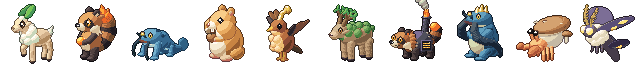
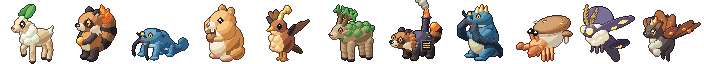
W66: new wildkin #11 搧火蝠 (fire bat, misty forest, evening/night)
Claude-Session: https://claude.ai/code/session_01G86S3FdZMqfgrsc5NdGkh1

diff --git a/tools/art/pals3.py b/tools/art/pals3.py
@@ -1,0 +1,99 @@
+# pals3.py：第三批野伴（W66）。畫法和 pals.py 一樣，設計說明見 DESIGN.md
+import numpy as np
+from r3d import *
+from paint import *
+from pals import Pal, V, fib
+
+# ============================================================
+# 11 搧火蝠：小蝙蝠。翅膀張開懸停；翼膜像風箱，一道道摺骨，搧一搧就把火搧旺；
+# 翼緣有點點餘燼、頭頂一小撮火苗。圓滾滾的炭色身體、胸口一團灰白的「灰燼」毛
+# ============================================================
+class FanBat(Pal):
+    FUR = Mat([(48, 40, 44), (74, 62, 64), (102, 88, 86), (130, 114, 108)], line=(52, 42, 46))
+    ASH = Mat([(150, 140, 134), (186, 176, 166), (214, 206, 196), (236, 230, 220)], line=(150, 140, 134))
+    WING = Mat([(120, 46, 40), (156, 66, 46), (192, 96, 58), (220, 130, 74)], line=(110, 40, 36))
+    BONE = Mat([(56, 40, 40), (82, 60, 56), (110, 84, 76)])
+    EAR_IN = Mat([(196, 90, 70), (230, 126, 90)])
+    EMBER = Mat([(240, 110, 40), (255, 156, 54), (255, 204, 90), (255, 240, 170)])
+    NOSE = Mat([(60, 40, 44), (100, 70, 72)], gloss=0.05)
+    HEAD = V(-6, -9, 0)
+    scale_f, off_f = 1.1, (32, 34)
+
+    # 翅膀的平面：e1 往外上方、e2 往後；骨頭從肩膀放射出去
+    BONES = ((-58, 16), (-24, 20), (10, 18), (44, 13))   # （角度、長度）
+
+    def wing_basis(self, s):
+        e1 = V(0.45, -0.6, 0.66 * s); e1 = e1 / np.linalg.norm(e1)
+        e2 = V(1, 0, 0)
+        n = np.cross(e1, e2); n = n / np.linalg.norm(n)
+        return e1, e2, n
+
+    def model(self):
+        m = Model(); H = self.HEAD
+        for s in (1, -1):
+            e1, e2, n = self.wing_basis(s)
+            base = V(4, -3, 3.5 * s)
+            tips = []
+            for (a, L) in self.BONES:
+                d = np.cos(deg(a)) * e1 + np.sin(deg(a)) * e2
+                tips.append(base + d * L)
+            # 翼膜：每兩根骨頭之間一片，下緣自然變成一個一個的弧（蝙蝠的波浪邊）
+            for j in range(len(tips) - 1):
+                t0, t1 = tips[j], tips[j + 1]
+                mid = (base + t0 + t1) / 3
+                u = (t0 + t1) / 2 - base; Lu = np.linalg.norm(u); u = u / Lu
+                v = np.cross(n, u)
+                R = np.column_stack([u, v, n])
+                w = np.linalg.norm(t1 - t0) / 2
+                m.ell(mid + u * 1.0, (Lu * 0.56, w * 0.78, 0.8), self.WING, R, tag=f"wing{s}{j}")
+            for j, t in enumerate(tips):
+                m.tube([base, t], [1.0, 0.5], self.BONE, tag=f"wingb{s}{j}")
+            # 摺骨之間的翼緣：點點餘燼
+            for j in range(len(tips) - 1):
+                p = base + ((tips[j] + tips[j + 1]) / 2 - base) * 0.8
+                m.sph(p + n * 0.6 * s, 1.5, self.EMBER, tag=f"wingE{s}{j}")
+        # 身體：圓滾滾
+        m.ell((2, 0, 0), (6.5, 7.5, 6), self.FUR, tag="body")
+        for i, d in enumerate(fib(14)):
+            if d[0] > -0.2: continue
+            m.sph(V(-2, 1, 0) + d * V(4.2, 4.8, 4.6), 2.5, self.ASH, tag=f"ash{i}")   # 胸口灰白的毛
+        # 頭
+        m.ell(H, (5.2, 4.8, 5.2), self.FUR, tag="head")
+        m.ell(H + (-4.2, 1.6, 0), (2.4, 2.0, 2.8), self.FUR, tag="head")          # 短短的吻部
+        m.ell(H + (-6.2, 1.1, 0), (1.0, 1.0, 1.5), self.NOSE, tag="nose")
+        for s in (1, -1):
+            R = rot_x(deg(-38 * s)) @ rot_z(deg(-8))
+            m.ell(H + (1, -4.6, 3.8 * s), (3.0, 3.8, 1.3), self.FUR, R, tag=f"ear{s}")
+            m.ell(H + (0.4, -4.4, 4.7 * s), (1.8, 2.6, 0.6), self.EAR_IN, R, tag=f"eari{s}")
+        # 頭頂一小撮火苗
+        m.tuft(H + (0.5, -4.5, 0), V(1.5, -4.5, 0), 1.8, self.EMBER, tag="flame")
+        m.tuft(H + (-1, -4.5, 0), V(-0.5, -3.2, 0), 1.3, self.EMBER, tag="flame2")
+        # 小腳（懸停時垂著）
+        for s in (1, -1):
+            m.tube([(3, 6.5, 2.5 * s), (3.5, 10.5, 2.8 * s)], [0.9, 0.6], self.BONE, tag=f"leg{s}")
+        return m
+
+    def paint_front(self, im, info):
+        H = self.HEAD
+        x, y = project(info, H + (-3.0, -1.0, 4.0))
+        eye_round(im, x, y, 2, 3, (250, 180, 60), big_hi=2)
+        if visible(info, H + (-3.0, -1.0, -4.0), 3):
+            x2, y2 = project(info, H + (-3.0, -1.0, -4.0))
+            eye_round(im, x2, y2, 2, 3, (250, 180, 60), big_hi=2)
+        # 嘴：小小的，露一顆白色小牙
+        mx, my = project(info, H + (-5.0, 3.0, 2))
+        line(im, [(mx - 2, my), (mx + 1, my)], (40, 26, 30))
+        put(im, mx - 1, my + 1, (250, 246, 236))
+
+    def paint_back(self, im, info):
+        pass
+
+ALL3 = [FanBat()]
+NAMES3 = ["11 搧火蝠"]
+
+if __name__ == "__main__":
+    fs = [p.front() for p in ALL3]; bs = [p.back() for p in ALL3]
+    a = sheet(fs, 4); b = sheet([x.resize((64, 64), Image.NEAREST) for x in bs], 4)
+    W = Image.new("RGBA", (a.width + b.width, max(a.height, b.height))); W.paste(a, (0, 0)); W.paste(b, (a.width, 0))
+    import sys
+    W.save(sys.argv[1] if len(sys.argv) > 1 else "pals3_preview.png")

diff --git a/tools/art/build.py b/tools/art/build.py
@@ -3,46 +3,64 @@
 #
 # 引擎的調色盤所有圖片加起來最多 240 色（Kenney 的地圖已經用掉一些），
 # 所以全部野伴的正面＋背面一起「減色」成 MAX_COLORS 色，共用同一組顏色。
+# W66 起：前 FROZEN 隻凍結不動，新加的另外減色（見下面）。要整批重畫時把 FROZEN 改成 0
 import os
 from PIL import Image
-import pals, pals2
+import pals, pals2, pals3
 
 MAX_COLORS = 128
 HERE = os.path.dirname(os.path.abspath(__file__))
 OUT = os.path.join(HERE, "..", "..", "assets", "art")
 BUILD = os.path.join(HERE, "..", "..", "build")
 
-ALL = pals.ALL + pals2.ALL2   # 順序 = species.json 的 sprite（0～4 第一批、5～9 第二批）
-fronts = [p.front() for p in ALL]
-backs = [p.back() for p in ALL]
+ALL = pals.ALL + pals2.ALL2 + pals3.ALL3   # 順序 = species.json 的 sprite（0～4 第一批、5～9 第二批、10～ 第三批 W66）
+# W66：已經畫好的野伴「凍結」——直接沿用 assets 裡的圖，不重新減色（不然舊的野伴顏色會跟著偏移）。
+# 只有新加的（第 FROZEN 隻以後）才算圖、減色：先減成 NEW_COLORS 色，跟舊顏色很接近的就直接用舊顏色。
+FROZEN = 10
+NEW_COLORS = 24
+NEAR = 14 * 14 * 3          # 顏色距離平方小於這個就算「很接近」
 N = len(ALL)
+oldF = Image.open(os.path.join(OUT, "kin_front.png")).convert("RGBA")
+oldB = Image.open(os.path.join(OUT, "kin_back.png")).convert("RGBA")
 F = Image.new("RGBA", (64 * N, 64), (0, 0, 0, 0))
 B = Image.new("RGBA", (32 * N, 32), (0, 0, 0, 0))
-for i, im in enumerate(fronts): F.paste(im, (i * 64, 0))
-for i, im in enumerate(backs): B.paste(im, (i * 32, 0))
+F.paste(oldF.crop((0, 0, 64 * FROZEN, 64)), (0, 0))
+B.paste(oldB.crop((0, 0, 32 * FROZEN, 32)), (0, 0))
+old_cols = sorted({p[:3] for im in (oldF, oldB) for p in im.getdata() if p[3]})
 
-# 減色：兩張圖拼在一起算一組共用的顏色，再各自換成最接近的顏色
-both = Image.new("RGB", (F.width, F.height + B.height), (0, 0, 0))
-both.paste(F.convert("RGB"), (0, 0)); both.paste(B.convert("RGB"), (0, F.height))
-mask = Image.new("L", both.size, 0)
-mask.paste(F.getchannel("A"), (0, 0)); mask.paste(B.getchannel("A"), (0, F.height))
-# 只用不透明的像素算顏色：把透明的地方先填成某個不透明像素的顏色
-px = both.load(); mk = mask.load()
-fill = next(px[x, y] for y in range(both.height) for x in range(both.width) if mk[x, y])
-for y in range(both.height):
-    for x in range(both.width):
-        if not mk[x, y]: px[x, y] = fill
-q = both.quantize(colors=MAX_COLORS, method=Image.Quantize.MEDIANCUT, dither=Image.Dither.NONE).convert("RGB")
+new = ALL[FROZEN:]
+if new:
+    nf = Image.new("RGBA", (64 * len(new), 64), (0, 0, 0, 0))
+    nb = Image.new("RGBA", (32 * len(new), 32), (0, 0, 0, 0))
+    for i, p in enumerate(new):
+        nf.paste(p.front(), (i * 64, 0)); nb.paste(p.back(), (i * 32, 0))
+    both = Image.new("RGB", (nf.width, nf.height + nb.height), (0, 0, 0))
+    both.paste(nf.convert("RGB"), (0, 0)); both.paste(nb.convert("RGB"), (0, nf.height))
+    mask = Image.new("L", both.size, 0)
+    mask.paste(nf.getchannel("A"), (0, 0)); mask.paste(nb.getchannel("A"), (0, nf.height))
+    px = both.load(); mk = mask.load()
+    fill = next(px[x, y] for y in range(both.height) for x in range(both.width) if mk[x, y])
+    for y in range(both.height):
+        for x in range(both.width):
+            if not mk[x, y]: px[x, y] = fill
+    q = both.quantize(colors=NEW_COLORS, method=Image.Quantize.MEDIANCUT, dither=Image.Dither.NONE).convert("RGB")
+    # 每個新顏色：舊顏色裡有很接近的就用舊的
+    remap = {}
+    for c in {q.getpixel((x, y)) for y in range(q.height) for x in range(q.width) if mk[x, y]}:
+        best = min(old_cols, key=lambda o: sum((a - b) ** 2 for a, b in zip(o, c)))
+        remap[c] = best if sum((a - b) ** 2 for a, b in zip(best, c)) < NEAR else c
+    def apply(src, top):
+        out = src.copy(); o = out.load(); qp = q.load()
+        for y in range(src.height):
+            for x in range(src.width):
+                if o[x, y][3]: o[x, y] = (*remap[qp[x, y + top]], 255)
+                else: o[x, y] = (0, 0, 0, 0)
+        return out
+    nf, nb = apply(nf, 0), apply(nb, nf.height)
+    F.paste(nf, (64 * FROZEN, 0)); B.paste(nb, (32 * FROZEN, 0))
+    added = {c for c in remap.values() if c not in set(old_cols)}
+    print("new kin:", len(new), "new colors:", len(added))
 
-def apply(src, top):
-    out = src.copy(); o = out.load(); qp = q.load()
-    for y in range(src.height):
-        for x in range(src.width):
-            if o[x, y][3]: o[x, y] = (*qp[x, y + top], 255)
-            else: o[x, y] = (0, 0, 0, 0)
-    return out
-
-F, B = apply(F, 0), apply(B, F.height)
 os.makedirs(OUT, exist_ok=True); os.makedirs(BUILD, exist_ok=True)
 F.save(os.path.join(OUT, "kin_front.png")); B.save(os.path.join(OUT, "kin_back.png"))
 cols = {p[:3] for im in (F, B) for p in im.getdata() if p[3]}

diff --git a/tools/art/icons.py b/tools/art/icons.py
@@ -11,11 +11,11 @@
 # 都面向左，往右走時左右翻轉。
 import numpy as np
 from PIL import Image
-import pals, pals2
+import pals, pals2, pals3
 from r3d import *
 from paint import put
 
-ALL = pals.ALL + pals2.ALL2
+ALL = pals.ALL + pals2.ALL2 + pals3.ALL3
 VIEW = rot_x(deg(-25)) @ rot_y(deg(20))
 OPT = pals.OPT
 V = lambda *a: np.array(a, float)
@@ -23,6 +23,7 @@ EYES = {
     "Sheep": V(-2.8, -1.2, 4.8), "Tanuki": V(-6.6, -2, 6.6), "Catfish": V(-6, -3.5, 6),
     "Hamster": V(-5, -2.5, 5.2), "Bird": V(-2, -1.2, 4.6), "ForestRam": V(-3, -1.5, 5),
     "StoveTanuki": V(-5.5, -2, 5.6), "RiverLord": V(-5, -3.5, 6.5), "MushroomCrab": None, "LampMoth": None,
+    "FanBat": V(-3, -1, 4),
 }
 
 def kind(tag):

diff --git a/docs/content.md b/docs/content.md
@@ -90,7 +90,7 @@
 
 台詞全部原創，不引用任何原作的句子。
 
-## 3. 野伴（第一版 15 種）
+## 3. 野伴（第一版 16 種；2026-10-21 W66 加入 11 號搧火蝠，原本的 11–15 往後一號）
 
 - 第一版只用**單一屬性**（6 種：普通、草、火、水、電、岩），雙屬性等 1.0 再加
 - 只有初始三隻會進化（Lv16），其他靠**等級提升工作等級**（Lv20 工作 +1），美術量少一半
@@ -108,11 +108,12 @@
 | 08 | 哨哨雀 | 普通 | 35 | 45 | 30 | 70 | 190 | 偵察1 | 草原小徑 | 頭頂一撮哨子形羽毛 |
 | 09 | 菇菇蟹 | 草 | 50 | 50 | 65 | 25 | 150 | 採集1、種田1 | 霧林 | 背著蘑菇當殼的寄居蟹 |
 | 10 | 燈蛾 | 電 | 40 | 40 | 35 | 70 | 120 | 發電1 | 霧林、礦坑口 | 翅膀上有燈泡般的發光斑 |
-| 11 | 礫殼犰狳 | 岩 | 50 | 60 | 80 | 30 | 120 | 採礦1 | 舊礦坑 | 殼由碎石拼成，會捲成球 |
-| 12 | 霧傘水母 | 水 | 55 | 40 | 50 | 50 | 120 | 灌溉1、搬運1 | 海岸 | 傘蓋像小雨傘，會飄在水面 |
-| 13 | 爐背牛 | 火 | 80 | 75 | 70 | 30 | 60 | 生火2、搬運2 | 火山洞 | 背上長著煙囪的矮壯牛 |
-| 14 | 雷角羚 | 電 | 60 | 80 | 50 | 95 | 45 | 發電2 | 山脊（稀有） | 角之間會跳電弧 |
-| 15 | 雲根 | 普通 | 100 | 100 | 100 | 100 | 3 | 不能派工（守護者） | 山頂聖所 | 樹根與雲纏成的鹿形 |
+| 11 | 搧火蝠 | 火 | 44 | 48 | 38 | 72 | 120 | 生火1 | 霧林（傍晚、晚上多） | 小蝙蝠，翼膜像風箱、翼緣有餘燼，頭頂一撮火苗（W66：御三家野外抓不到，第 1 章要有火屬性） |
+| 12 | 礫殼犰狳 | 岩 | 50 | 60 | 80 | 30 | 120 | 採礦1 | 舊礦坑 | 殼由碎石拼成，會捲成球 |
+| 13 | 霧傘水母 | 水 | 55 | 40 | 50 | 50 | 120 | 灌溉1、搬運1 | 港灣鎮（原本海岸；海岸要渡水，渡水要灌溉，沒選鬚鬚鯰的會卡住） | 傘蓋像小雨傘，會飄在水面 |
+| 14 | 爐背牛 | 火 | 80 | 75 | 70 | 30 | 60 | 生火2、搬運2 | 火山洞 | 背上長著煙囪的矮壯牛 |
+| 15 | 雷角羚 | 電 | 60 | 80 | 50 | 95 | 45 | 發電2 | 山脊（稀有） | 角之間會跳電弧 |
+| 16 | 雲根 | 普通 | 100 | 100 | 100 | 100 | 3 | 不能派工（守護者） | 山頂聖所 | 樹根與雲纏成的鹿形 |
 
 造型原則：**先決定「動物 + 一個工作相關的特徵」**（倉鼠＋囤東西、牛＋煙囪），畫之前先上網搜一下有沒有撞到現有怪物的造型。
 
@@ -120,9 +121,9 @@
 
 | 圖 | 尺寸 | 數量 | 說明 |
 |---|---|---|---|
-| 戰鬥正面圖 | 64×64 | 15 | 敵方用 |
-| 戰鬥背面圖 | 32×32，畫面上放大 2 倍 | 15 | GB 也是背面圖較粗，省一半工 |
-| 小圖示 | 16×16 | 15 | 隊伍選單、基地裡走動 |
+| 戰鬥正面圖 | 64×64 | 16 | 敵方用 |
+| 戰鬥背面圖 | 32×32，畫面上放大 2 倍 | 16 | GB 也是背面圖較粗，省一半工 |
+| 小圖示 | 16×16 | 16 | 隊伍選單、基地裡走動 |
 | 異色 | 0 張 | — | 用調色盤替換，不用另外畫（見第 9 節） |
 
 ---
@@ -301,8 +302,8 @@ Neil 想加入阿爾宙斯的元素：時間會影響遇到的野伴，並考慮
 | 苔石村 | 2×2 | Tiny Town | 旅店（回復）、商店、招式回想 |
 | 霧林 | 3×2 | Tiny Town | 伐木擋路、守護者 1「森之守」 |
 | 舊礦坑 | 2×3 | Tiny Dungeon | 暗洞（照亮）、落石、鐵輪幹部 1 |
-| 港灣鎮 | 2×2 | Tiny Town | 鐵輪公司辦事處、守護者 2「岩之守」 |
-| 海岸 | 3×1 | Tiny Town | 渡水、霧傘水母 |
+| 港灣鎮 | 2×2 | Tiny Town | 鐵輪公司辦事處、守護者 2「岩之守」、霧傘水母（碼頭邊） |
+| 海岸 | 3×1 | Tiny Town | 渡水 |
 | 火山洞 | 2×2 | Tiny Dungeon | 爐背牛、守護者 3「焰之守」 |
 | 鐵輪工廠 | 2×2 | Tiny Dungeon | 解救野伴、社長戰 |
 | 山脊 → 山頂聖所 | 1×3 | Tiny Town | 雷角羚、勁敵終戰、雲根 |
@@ -318,7 +319,7 @@ Neil 想加入阿爾宙斯的元素：時間會影響遇到的野伴，並考慮
 | 第 2 章 | 舊礦坑、港灣鎮 | 鐵輪公司登場、岩之守 → 徽記 2、爐 | 60 分 |
 | 第 3 章 | 海岸、火山洞 | 焰之守 → 徽記 3、精製球、發電機 | 60 分 |
 | 終章 | 鐵輪工廠、山脊、聖所 | 救出野伴、勁敵終戰、雲根 | 40 分 |
-| 破關後 | 全區 | 異色野伴、手冊收集 15/15、守護者再戰 | — |
+| 破關後 | 全區 | 異色野伴、手冊收集 16/16、守護者再戰 | — |
 
 **第一版總長約 4 小時**，NPC 訓練家約 20 位。
 
@@ -326,10 +327,8 @@ Neil 想加入阿爾宙斯的元素：時間會影響遇到的野伴，並考慮
 
 | 野伴 | 等級 | 權重 |
 |---|---|---|
-| 囤囤鼠 | 2–4 | 50 |
-| 哨哨雀 | 2–4 | 40 |
-| 芽角羊 | 3 | 5 |
-| 鬚鬚鯰 | 3 | 5 |
+| 囤囤鼠 | 2–4 | 50（傍晚、晚上 70） |
+| 哨哨雀 | 2–4 | 40（早上 60） |
 
 ~~讓沒選到的初始野伴有低機率在野外出現~~（2026-10-21 Neil 改：**御三家野外不出現、劇情也不送**，只有開頭能選一隻；想要另外兩隻要和其他玩家交換，保持稀有性。選鬚鬚鯰的玩家打森之守要的火屬性，由 W66 的新野伴提供）
 

diff --git a/docs/tasks.md b/docs/tasks.md
@@ -395,8 +395,14 @@
   - 草原小徑拿掉芽角羊、鬚鬚鯰、炭毛狸（原本各權重 5，約每 7 場就遇到一隻御三家）
   - 劇情也不送：另外兩隻只能和其他玩家交換（交換要等連線，路線圖階段 5）
   - 選鬚鬚鯰的玩家打柏伯要的火屬性 → W66 設計一隻普通的火屬性野伴；在那之前選鬚鬚鯰比較辛苦
-- [ ] **W66 [企劃＋美術] 野伴 11–14**
-  - 必須有（W65d）：一隻**普通的火屬性**，第 1 章（草原小徑或霧林）就抓得到，會「生火」工作（第 2 章的爐要用）；最好也有一隻會「澆水」的非御三家
+- [x] **W66 [企劃＋美術] 野伴 11：搧火蝠**（2026-10-21）
+  - 原本的 11–15 號往後一號，第一版變成 16 種（Neil 選：插成 11 號，手冊照出場順序）
+  - 火屬性、生火 1、捕獲率 120；霧林，白天權重 8、傍晚 20、晚上 35（用 W64c 的時段）；Lv6 學火星、Lv10 快爪、Lv14 咬住
+  - 美術 `tools/art/pals3.py`：小蝙蝠、翼膜像風箱、翼緣餘燼、頭頂火苗；`build.py` 改成凍結前 10 隻（舊圖完全不變），新的一隻沒有新增顏色
+  - 異色：轉 200 度，橘紅的翅膀和火變成藍色
+  - 第 1 章平衡表：草、水的玩家多帶搧火蝠，火的玩家多帶燈蛾。柏伯：鬚鬚鯰 Lv13＋搧火蝠、囤囤鼠 Lv11 勝率約 60%（炭毛狸隊 73%、芽角羊隊 94%）
+  - 文件：霧傘水母從海岸提前到港灣鎮（海岸要渡水，渡水要灌溉）
+- [ ] **W66b [企劃＋美術] 野伴 12–16**：礫殼犰狳、霧傘水母、爐背牛、雷角羚、雲根。等做到那一章的地圖時再畫（第 2 章起）；記得要有一隻非御三家會「灌溉」（霧傘水母）
   - 可以有（W64b）：只在晚上／特定季節出現的種類
 - [ ] **W67 [遊戲] 舊礦坑**：照亮（發電）、碎岩（採礦）、鐵輪幹部 1
 - [ ] **W68 [遊戲] 港灣鎮與岩之守**：徽記 2、爐

diff --git a/tools/art/DESIGN.md b/tools/art/DESIGN.md
@@ -22,3 +22,11 @@
 | 06 | 河伯鯰 | 直立坐著 | 雙手抱胸 | 兩條很粗的長鬍鬚從嘴角垂到胸前再甩到肩後，像披風；頭頂金色鰭冠 | 小小的金色眼睛 |
 | 09 | 菇菇蟹 | 寄居蟹 | 橫著走 | 背著一朵香菇當殼（咖啡色、白色龜裂紋，旁邊兩朵小的），眼睛在眼柄上，前面那隻螯比較大 | 眼柄上的黑亮圓眼 |
 | 10 | 燈蛾 | 飛行 | 翅膀張開懸停 | 羽毛狀觸角、毛茸茸的領子、翅膀上的斑點像亮著的燈泡 | 發光的複眼 |
+
+## 第三批（W66）
+
+圖在 `pals3.py`；`build.py` 從這一批開始「凍結」前面 10 隻（FROZEN），舊圖不重新減色，新的一隻能用舊顏色就用舊顏色（搧火蝠沒有新增任何顏色）。
+
+| 編號 | 名字 | 骨架 | 姿勢 | 特徵 | 眼睛 |
+|---|---|---|---|---|---|
+| 11 | 搧火蝠 | 飛行、圓滾滾的小身體 | 翅膀往兩邊斜上方張開懸停，小腳垂著 | 翼膜像風箱：骨頭之間一片片摺起來，翼緣一點一點餘燼；頭頂一撮火苗；胸口一團灰白的「灰燼」毛；短而寬的耳朵（太長會像兔子） | 大圓琥珀色眼睛，嘴邊一顆小白牙 |
